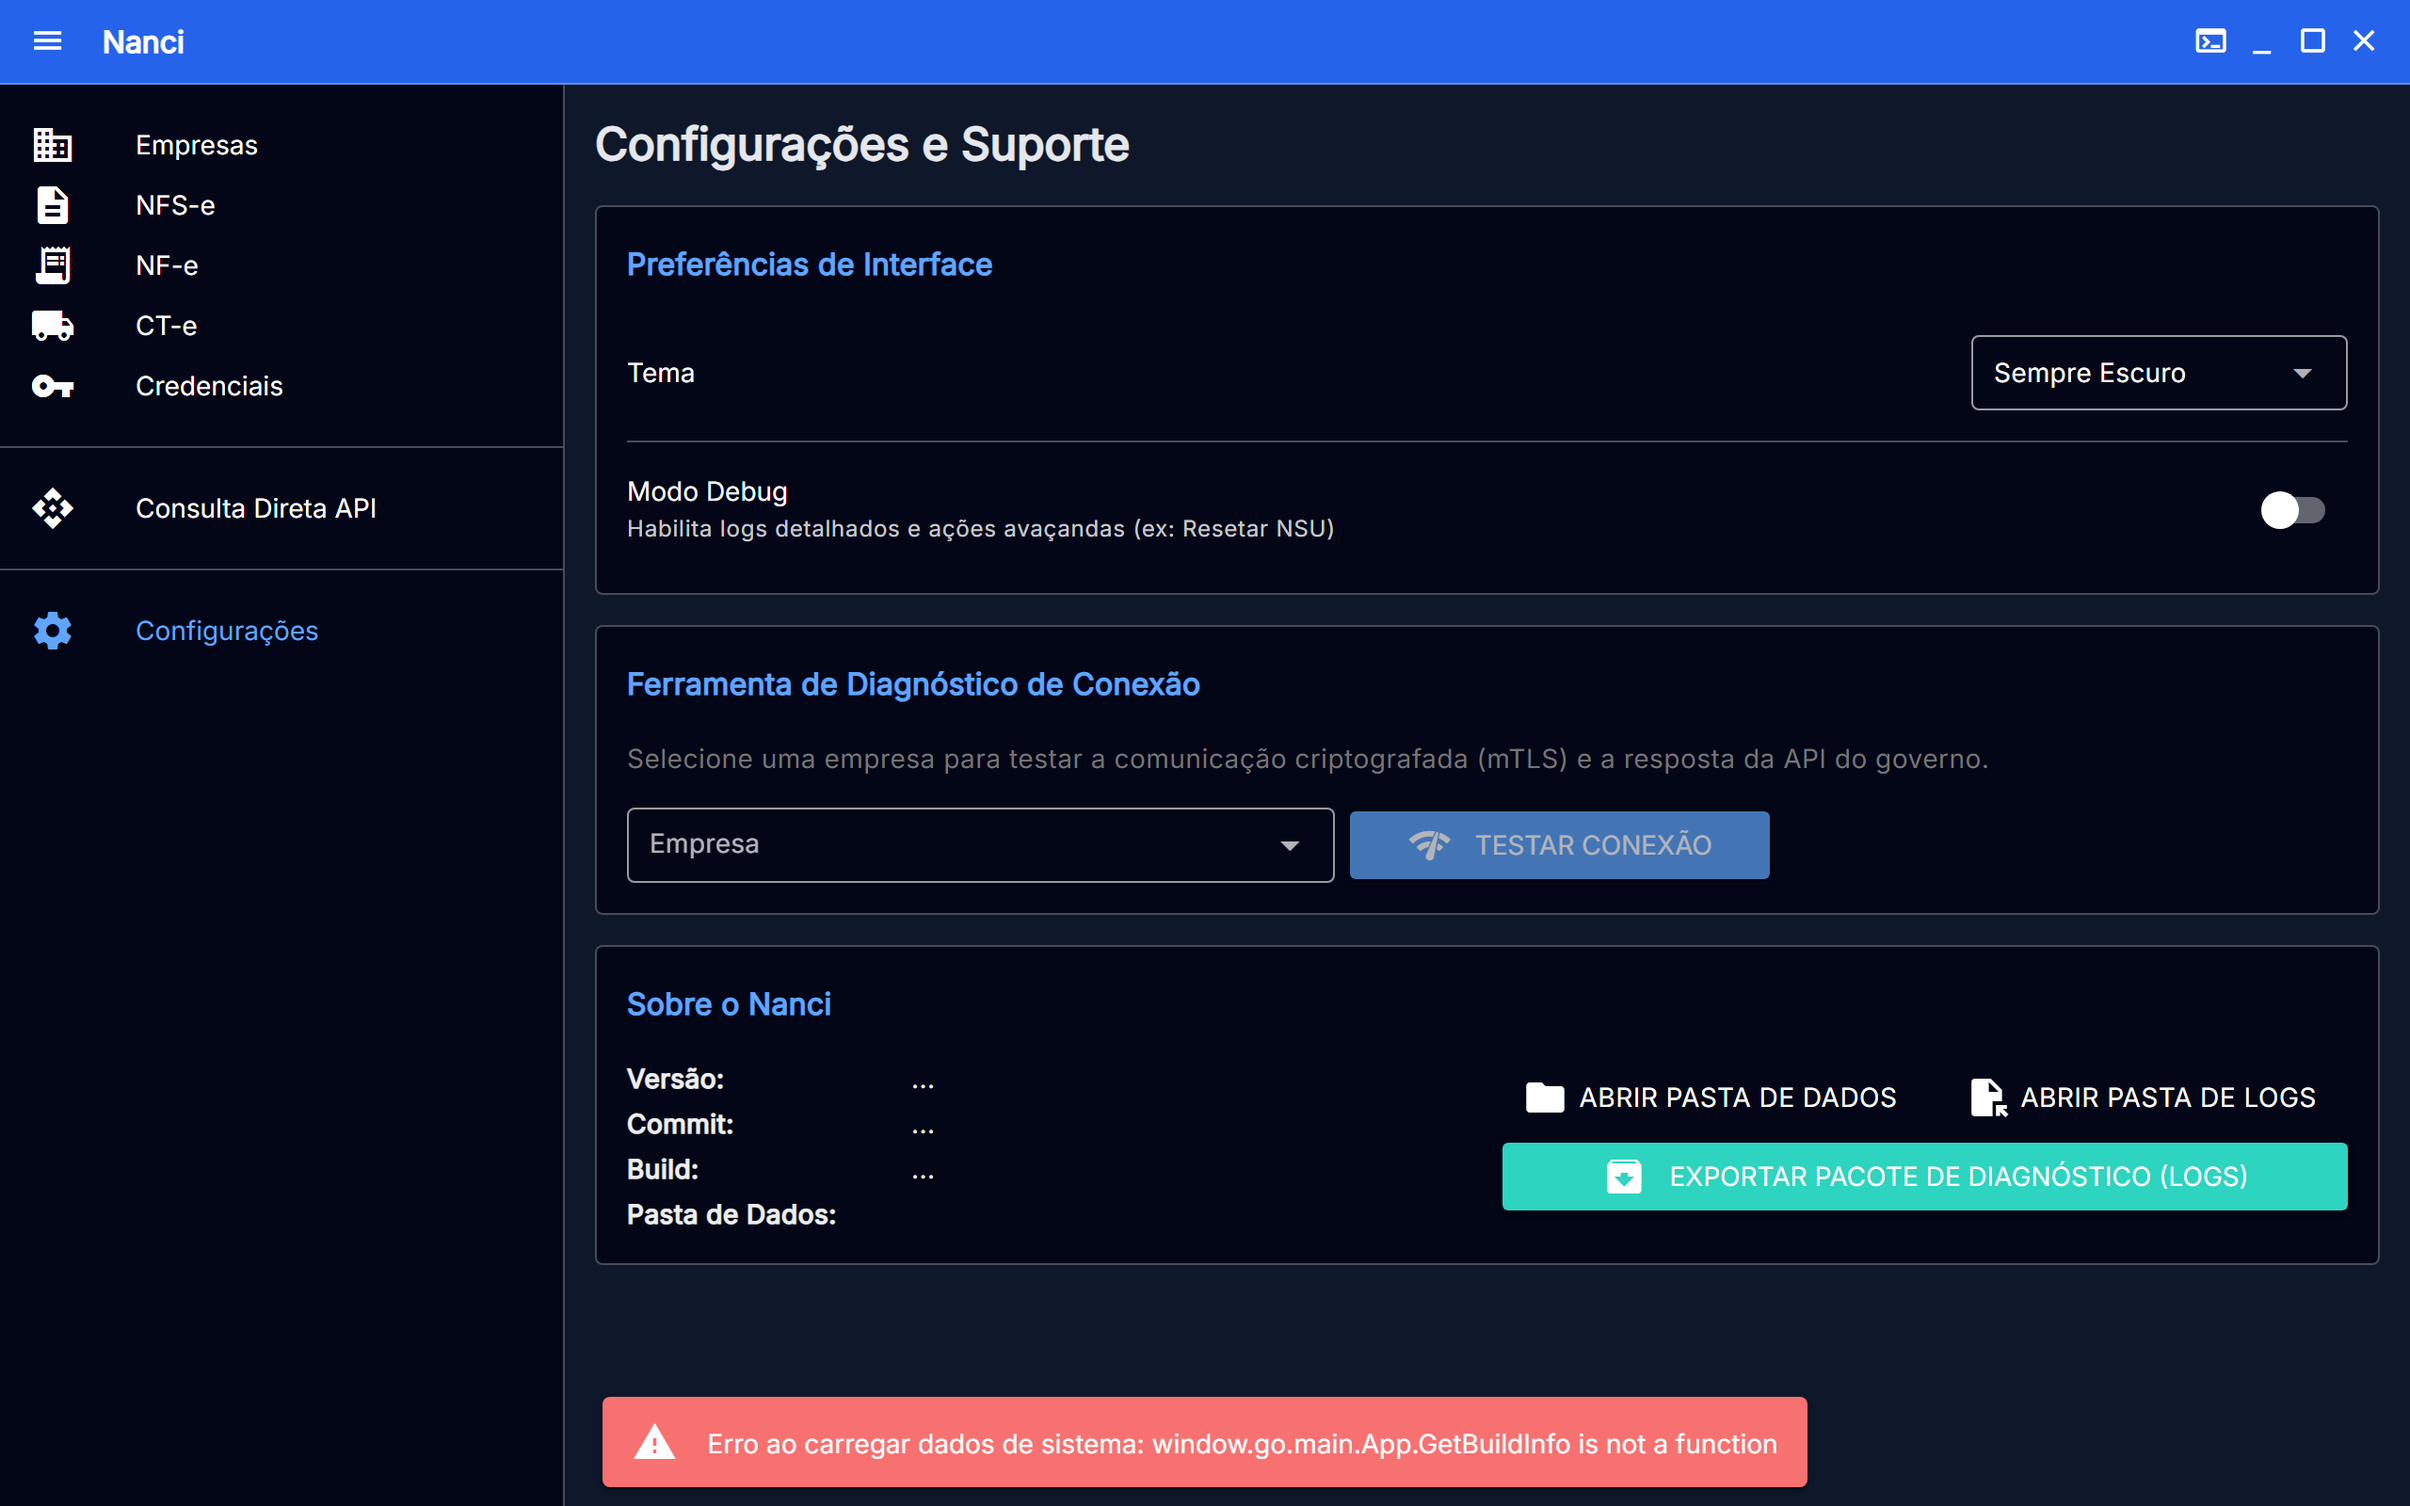
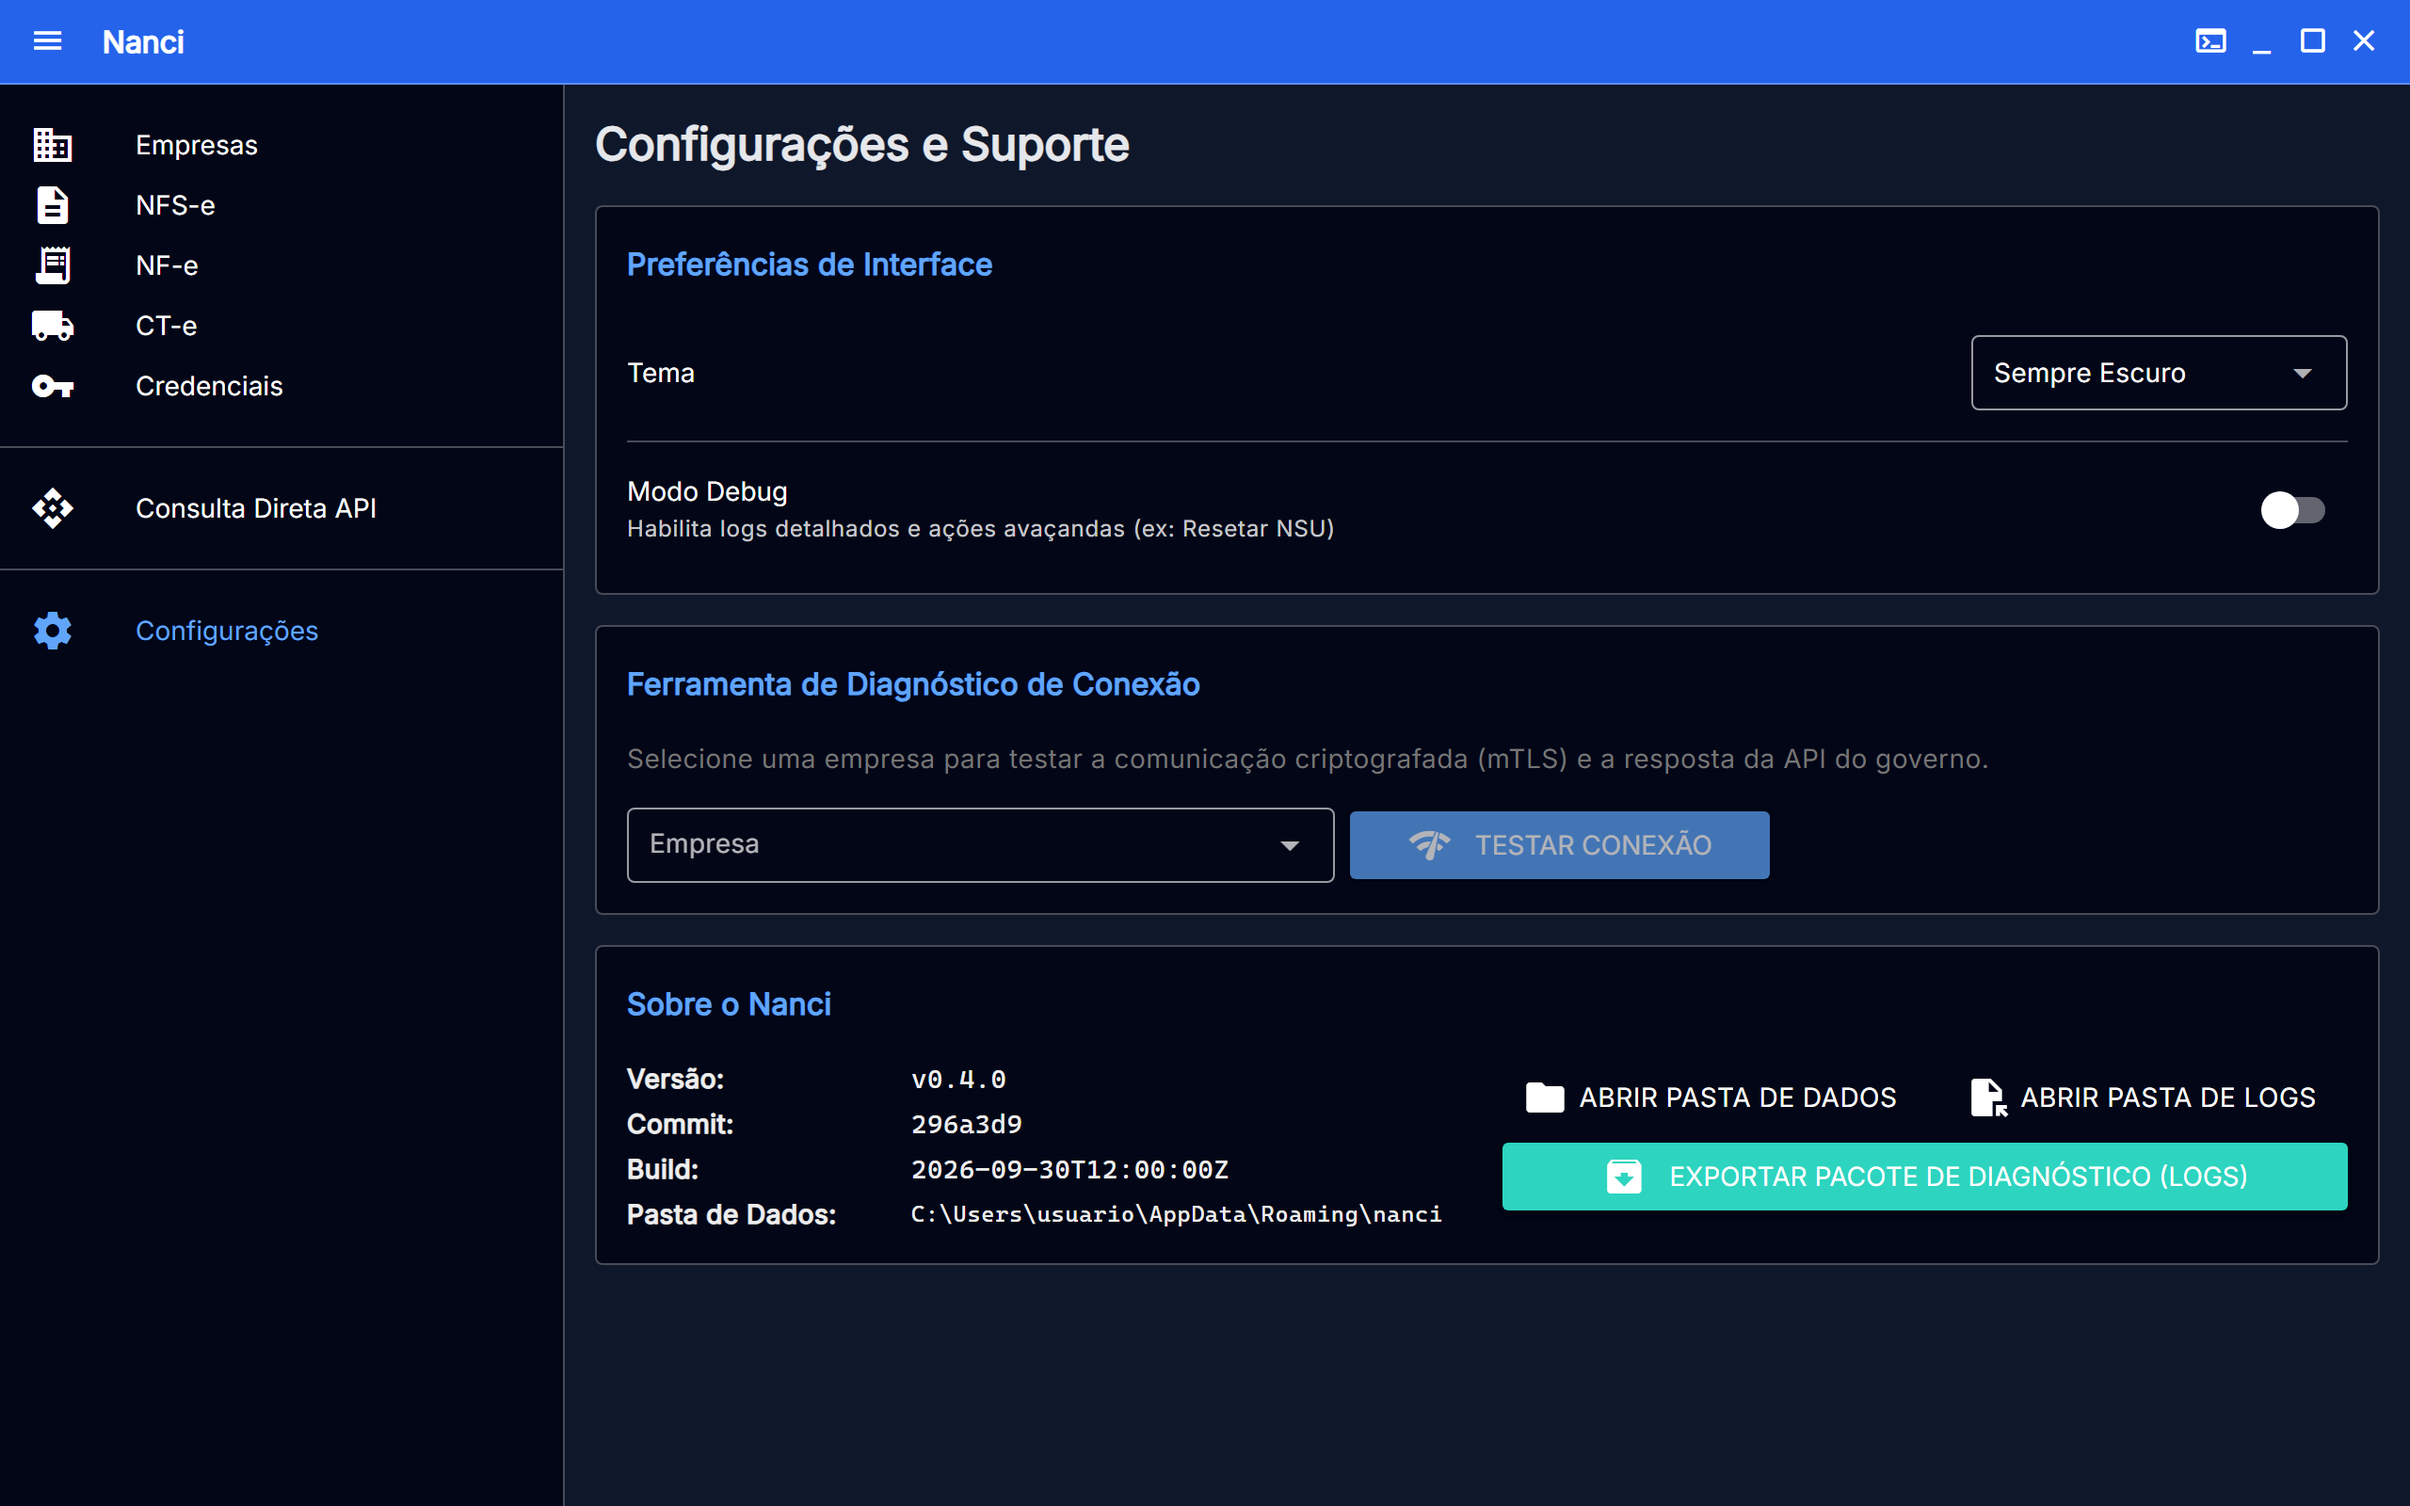
docs: fix the Configurações screenshot
The screenshot mock lacked GetBuildInfo and GetDataDirectory, so the
Configurações page showed an error. The mock now answers them, the settings
screenshots are regenerated and the pendência is gone.

Changed region(s): [[0.25, 0.9062, 0.75, 1.0], [0.375, 0.7188, 0.5938, 0.8125]]

diff --git a/internal/desktop/frontend/scripts/generate-screenshots.ts b/internal/desktop/frontend/scripts/generate-screenshots.ts
@@ -1141,6 +1141,10 @@ async function installWailsMock(context: BrowserContext, nfeStatus: Record<strin
             ExportXML: async () => ({ OutPath: 'C:\\exports\\nfs.xml', Format: 'xml', Incremental: false, ExportedCount: 1 }),
             ExportLogs: async () => undefined,
             CountPendingExports: async () => 0,
+            GetBuildInfo: async () => ({ version: 'v0.4.0', commit: '296a3d9', date: '2026-09-30T12:00:00Z' }),
+            GetDataDirectory: async () => 'C:\\Users\\usuario\\AppData\\Roaming\\nanci',
+            OpenDataDirectory: async () => undefined,
+            OpenLogsDirectory: async () => undefined,
             ExportNFeXML: async () => ({ OutPath: 'C:\\exports\\nfe.xml', ExportedCount: 1, SkippedResumos: 0 }),
             ExportNFeZIP: async () => ({ OutPath: 'C:\\exports\\nfe.zip', ExportedCount: 4, SkippedResumos: 3 }),
             ListNFe: async () => nfe.rows,

diff --git a/docs/PENDENCIAS.md b/docs/PENDENCIAS.md
@@ -16,10 +16,6 @@ Itens anotados durante as entregas de NF-e (v0.4.0) e CT-e (v0.5.0), em 24/09/20
 - **Parse de CT-e real ainda não exercitado.** A empresa usada nos testes não tinha CT-e na fila; os parsers foram validados com fixtures fictícias e o XSD 4.00. Ao aparecer o primeiro CT-e real, conferir a linha na tela e os avisos de leitura (`parse_warnings`). Os códigos de denegação (110, 205, 301, 302, 303) foram assumidos iguais aos da NF-e; conferir no MOC CT-e 4.00.
 - **Ciência da Operação real ainda não enviada.** O fluxo de manifestação da NF-e foi testado só com o servidor de teste; um envio real exige um CNPJ que receba NF-e. A assinatura foi conferida byte a byte contra um evento real aceito pela SEFAZ.
 
-## Interface
-
-- **Captura de tela de Configurações** mostra um erro porque o mock do script de screenshots não implementa `GetBuildInfo`.
-
 ## Código
 
 - **Vocabulário compartilhado ainda em `internal/nfse`.** `Company`, `Credential`, `Environment`, `SyncSource`, `SyncStatus`, `SyncStopReason`, `SyncMode`, `SyncStartPolicy` e os parâmetros de estado de sync (cerca de 790 referências em 73 arquivos) são usados por `sync`, `store`, `app` e `sefaz`, que não são específicos de NFS-e. A parte mínima (`Money`, `CompanyID`, `ErrInvalidEnum`, chave de acesso, helpers de parse) já foi para `internal/dfe`. O resto pede um PR próprio, só de movimento, com um nome de pacote decidido antes.
